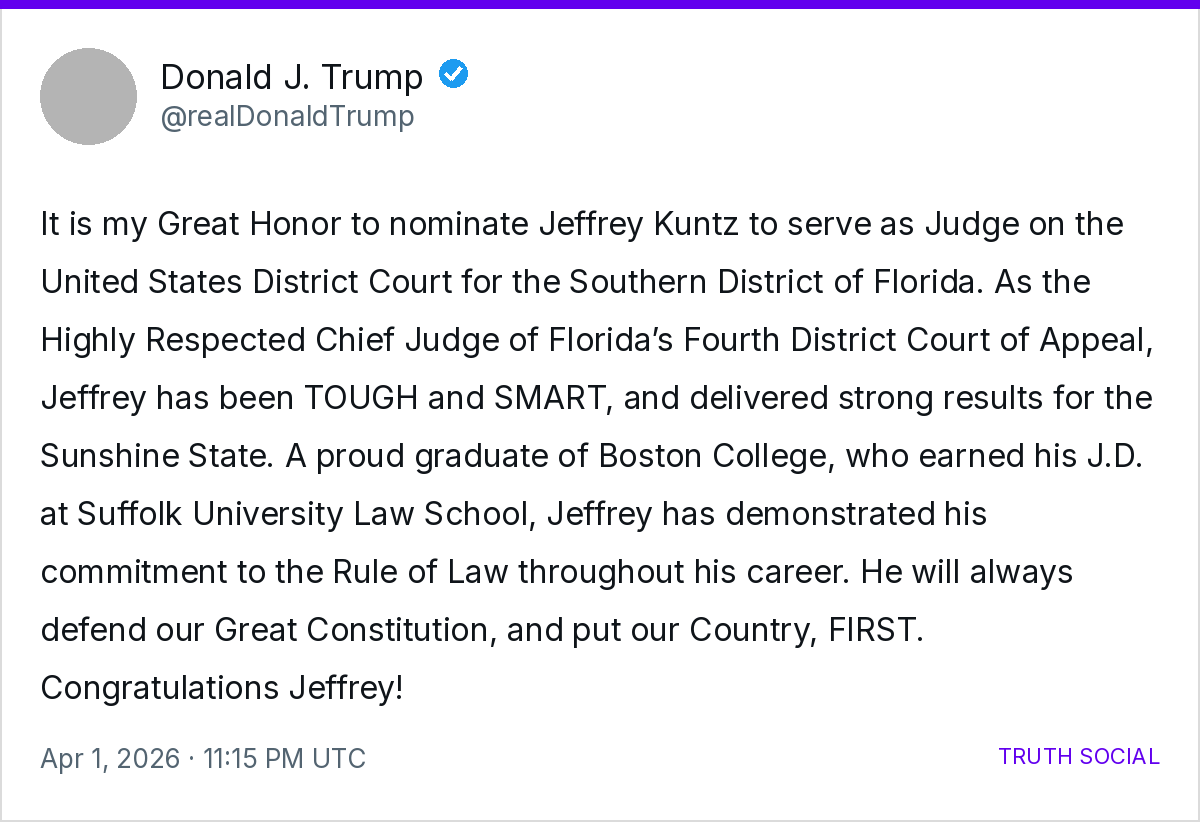
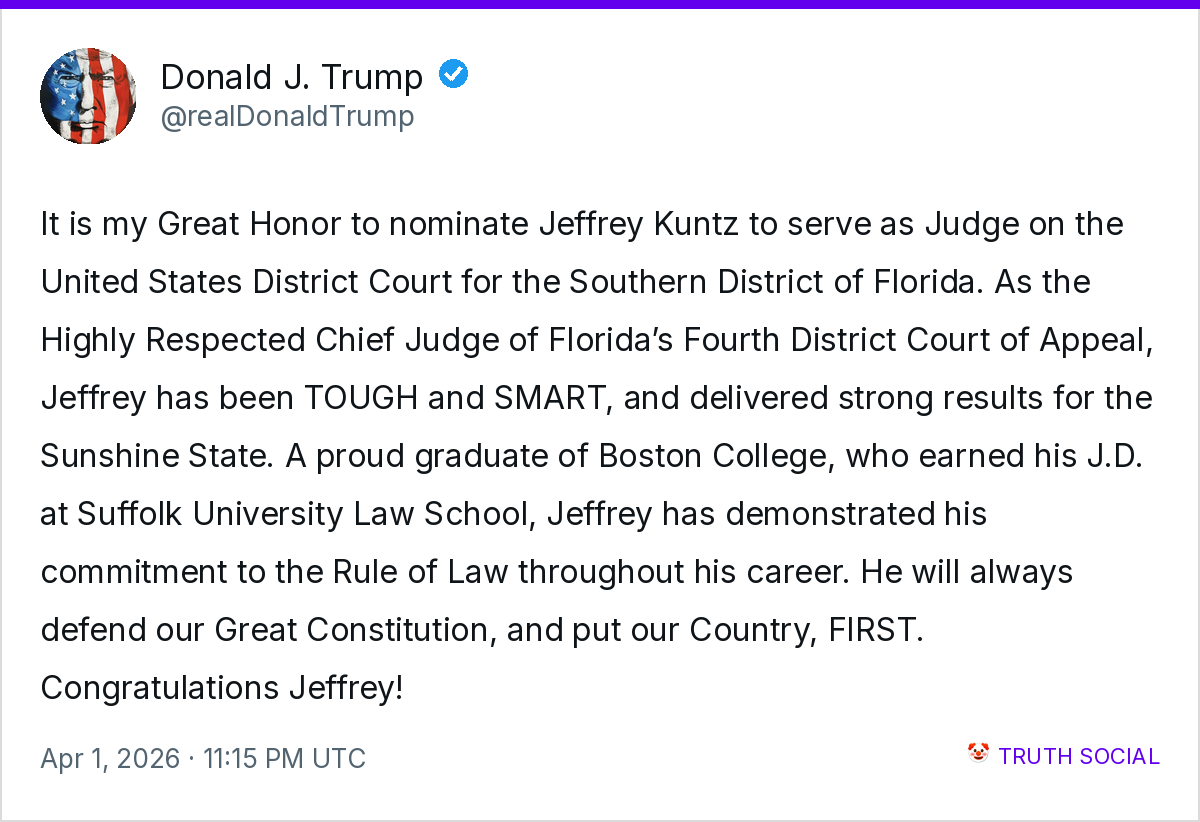
chore: new Truth post detected 2026-04-03 06:09 UTC

Changed region(s): [[0.0308, 0.0608, 0.1233, 0.1825], [0.8017, 0.9124, 0.8325, 0.9428]]

diff --git a/posts.md b/posts.md
@@ -1,24 +1,24 @@
 
-## Post detected at 2026-04-03 05:55:23 UTC
+## Post detected at 2026-04-03 06:09:29 UTC
 
-**Posted on Truth Social:** Apr 3, 2026 · 2:41 AM UTC
+**Posted on Truth Social:** Apr 3, 2026 · 1:21 AM UTC
 
-**Source:** [https://truthsocial.com/@realDonaldTrump/116338464010194156](https://truthsocial.com/@realDonaldTrump/116338464010194156)
+**Source:** [https://truthsocial.com/@realDonaldTrump/116338150251966000](https://truthsocial.com/@realDonaldTrump/116338150251966000)
 
-**Post ID:** `116338464010194156`
+**Post ID:** `116338150251966000`
 
 ### Text
 
-Our Military, the greatest and most powerful (by far!) anywhere in the World, hasn’t even started destroying what’s left in Iran. Bridges next, then Electric Power Plants! New Regime leadership knows what has to be done, and has to be done, FAST! President DONALD J.TRUMP
+Is Bruce Springsteen going to sue his plastic surgeon?
 
 ### Post Card
 
-![Post card](images/116338464010194156_card.png)
+![Post card](images/116338150251966000_card.png)
 
 
 ---
 
-## Post detected at 2026-04-03 00:00:30 UTC
+## Post detected at 2026-04-03 06:09:29 UTC
 
 **Posted on Truth Social:** Apr 2, 2026 · 10:32 PM UTC
 
@@ -37,8 +37,45 @@ I would like to thank the hardworking Commissioners and Staff of the National Ca
 
 ---
 
+## Post detected at 2026-04-03 06:09:29 UTC
 
-## Post detected at 2026-04-02 18:10:25 UTC
+**Posted on Truth Social:** Apr 2, 2026 · 10:29 PM UTC
+
+**Source:** [https://truthsocial.com/@realDonaldTrump/116337474135003522](https://truthsocial.com/@realDonaldTrump/116337474135003522)
+
+**Post ID:** `116337474135003522`
+
+### Text
+
+
+
+### Post Card
+
+![Post card](images/116337474135003522_card.png)
+
+
+---
+
+## Post detected at 2026-04-03 06:09:29 UTC
+
+**Posted on Truth Social:** Apr 2, 2026 · 10:29 PM UTC
+
+**Source:** [https://truthsocial.com/@realDonaldTrump/116337473284766361](https://truthsocial.com/@realDonaldTrump/116337473284766361)
+
+**Post ID:** `116337473284766361`
+
+### Text
+
+
+
+### Post Card
+
+![Post card](images/116337473284766361_card.png)
+
+
+---
+
+## Post detected at 2026-04-03 06:09:29 UTC
 
 **Posted on Truth Social:** Apr 2, 2026 · 5:43 PM UTC
 
@@ -57,4 +94,97 @@ Davy Crockett, obviously a distant relative of Jasmine Crockett, and a very High
 
 ---
 
+## Post detected at 2026-04-03 06:09:29 UTC
 
+**Posted on Truth Social:** Apr 2, 2026 · 5:17 PM UTC
+
+**Source:** [https://truthsocial.com/@realDonaldTrump/116336247856387679](https://truthsocial.com/@realDonaldTrump/116336247856387679)
+
+**Post ID:** `116336247856387679`
+
+### Text
+
+Pam Bondi is a Great American Patriot and a loyal friend, who faithfully served as my Attorney General over the past year. Pam did a tremendous job overseeing a massive crackdown in Crime across our Country, with Murders plummeting to their lowest level since 1900. We love Pam, and she will be transitioning to a much needed and important new job in the private sector, to be announced at a date in the near future, and our Deputy Attorney General, and a very talented and respected Legal Mind, Todd Blanche, will step in to serve as Acting Attorney General. Thank you for your attention to this matter! President DONALD J. TRUMP
+
+### Post Card
+
+![Post card](images/116336247856387679_card.png)
+
+
+---
+
+## Post detected at 2026-04-03 06:09:29 UTC
+
+**Posted on Truth Social:** Apr 2, 2026 · 4:37 PM UTC
+
+**Source:** [https://truthsocial.com/@realDonaldTrump/116336091138489301](https://truthsocial.com/@realDonaldTrump/116336091138489301)
+
+**Post ID:** `116336091138489301`
+
+### Text
+
+The biggest bridge in Iran comes tumbling down, never to be used again — Much more to follow! IT IS TIME FOR IRAN TO MAKE A DEAL BEFORE IT IS TOO LATE, AND THERE IS NOTHING LEFT OF WHAT STILL COULD BECOME A GREAT COUNTRY! President DONALD J. TRUMP
+
+### Post Card
+
+![Post card](images/116336091138489301_card.png)
+
+
+---
+
+## Post detected at 2026-04-03 06:09:29 UTC
+
+**Posted on Truth Social:** Apr 2, 2026 · 4:15 PM UTC
+
+**Source:** [https://truthsocial.com/@realDonaldTrump/116336001721515418](https://truthsocial.com/@realDonaldTrump/116336001721515418)
+
+**Post ID:** `116336001721515418`
+
+### Text
+
+
+
+### Post Card
+
+![Post card](images/116336001721515418_card.png)
+
+
+---
+
+## Post detected at 2026-04-03 06:09:29 UTC
+
+**Posted on Truth Social:** Apr 2, 2026 · 2:33 PM UTC
+
+**Source:** [https://truthsocial.com/@realDonaldTrump/116335602592937497](https://truthsocial.com/@realDonaldTrump/116335602592937497)
+
+**Post ID:** `116335602592937497`
+
+### Text
+
+Thank you to all of our Great Congressional Republicans, House Speaker Mike Johnson, and Senate Leader John Thune, for their work this week. Republicans are UNIFIED, and moving forward on a plan that will reload funding for our FANTASTIC Border Patrol and Immigration Enforcement Officers. Because the Democrats are fully and 100% committed to the Radical Left Policy of Open Borders and Zero Immigration Enforcement (which will hopefully cost them dearly in the Midterms!), allowing Murderers and Criminals of all types into our Country, totally unchecked and unvetted, I will soon sign an order to pay ALL of the incredible employees at the Department of Homeland Security. Their families have suffered far too long at the hands of the Extreme Liberal “Leaders,” Cryin’ Chuck Schumer and Hakeem “High Tax” Jeffries. Nevertheless, help is on the way for our Brave and Patriotic Public Servants who have continued to work hard, and do their part to protect and defend our Country. Thank you for your attention to this matter! President DONALD J. TRUMP
+
+### Post Card
+
+![Post card](images/116335602592937497_card.png)
+
+
+---
+
+## Post detected at 2026-04-03 06:09:29 UTC
+
+**Posted on Truth Social:** Apr 2, 2026 · 11:58 AM UTC
+
+**Source:** [https://truthsocial.com/@realDonaldTrump/116334990675013056](https://truthsocial.com/@realDonaldTrump/116334990675013056)
+
+**Post ID:** `116334990675013056`
+
+### Text
+
+Bad, and very boring singer, Bruce Springsteen, who looks like a dried up prune who has suffered greatly from the work of a really bad plastic surgeon, has long had a horrible and incurable case of Trump Derangement Syndrome, sometimes referred to as TDS. The guy is a total loser who spews hate against a President who won a Landslide Election, including the popular vote, all Seven Swing States, and 86% of the Counties across America. Under Sleepy Joe and the Dems, our Country was DEAD, and now we have the “hottest” Country, by far, anywhere in the World. MAGA SHOULD BOYCOTT HIS OVERPRICED CONCERTS, WHICH SUCK. SAVE YOUR HARD EARNED MONEY. AMERICA IS BACK!!! President DJT
+
+### Post Card
+
+![Post card](images/116334990675013056_card.png)
+
+
+---
